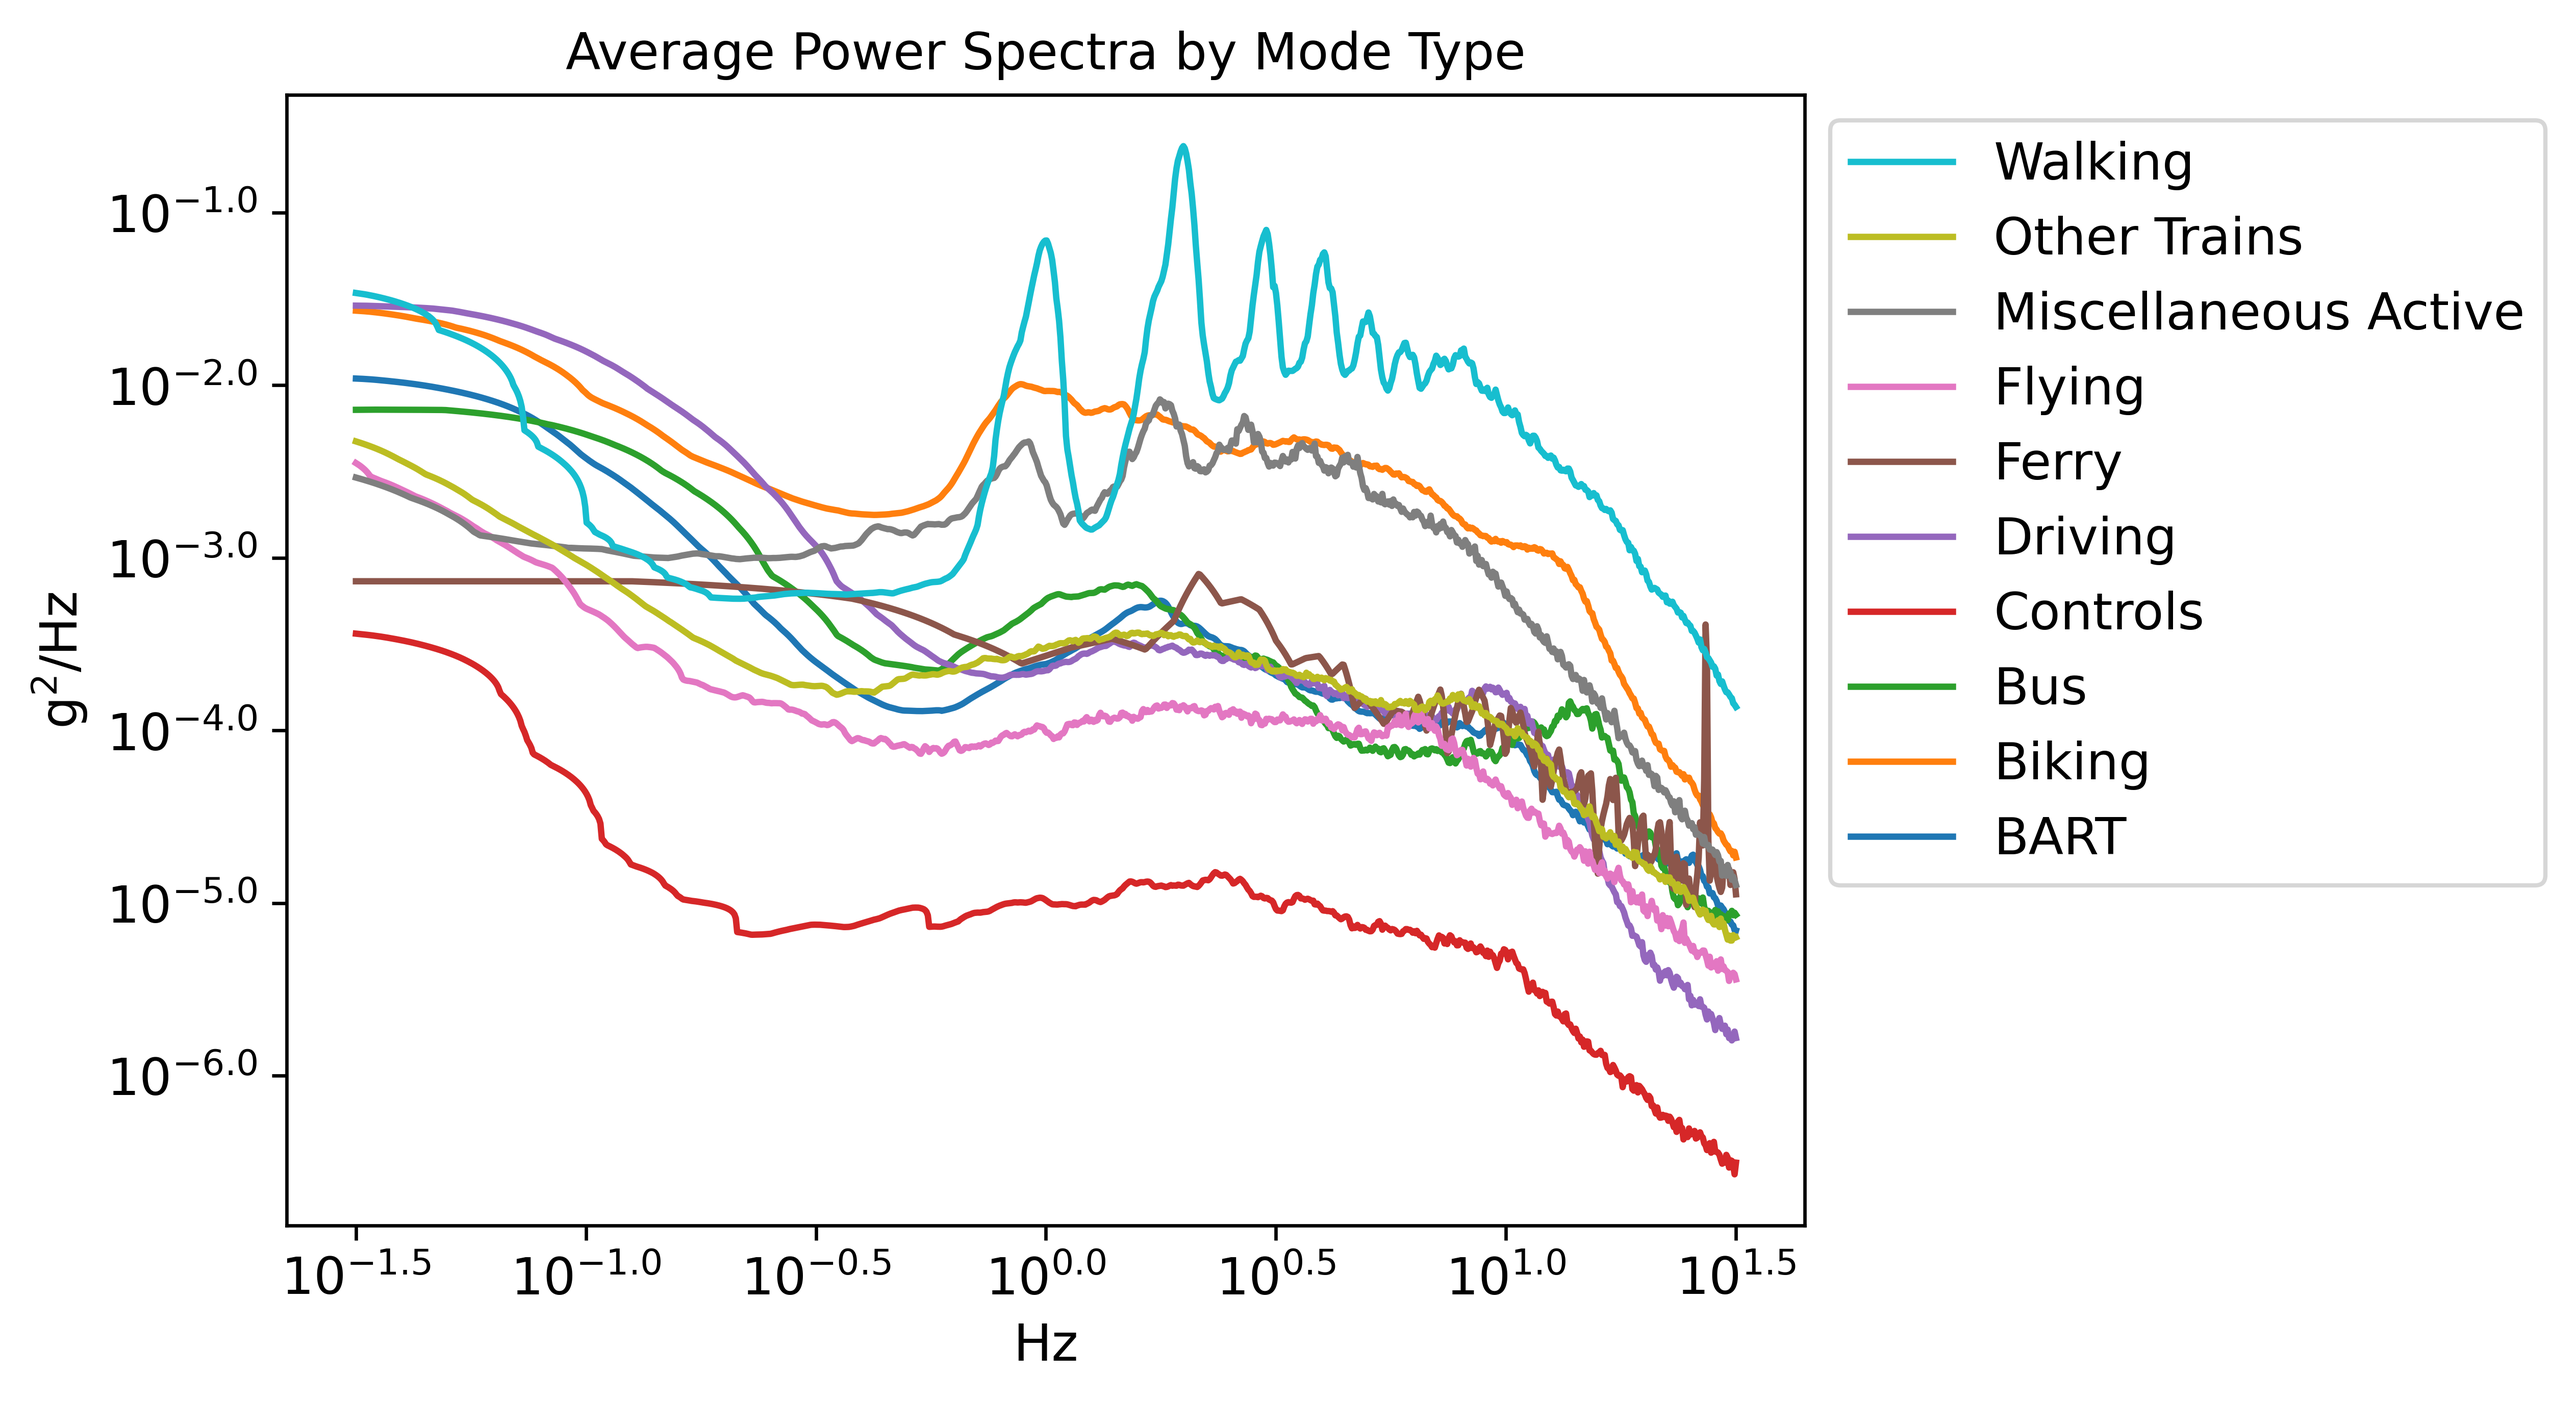
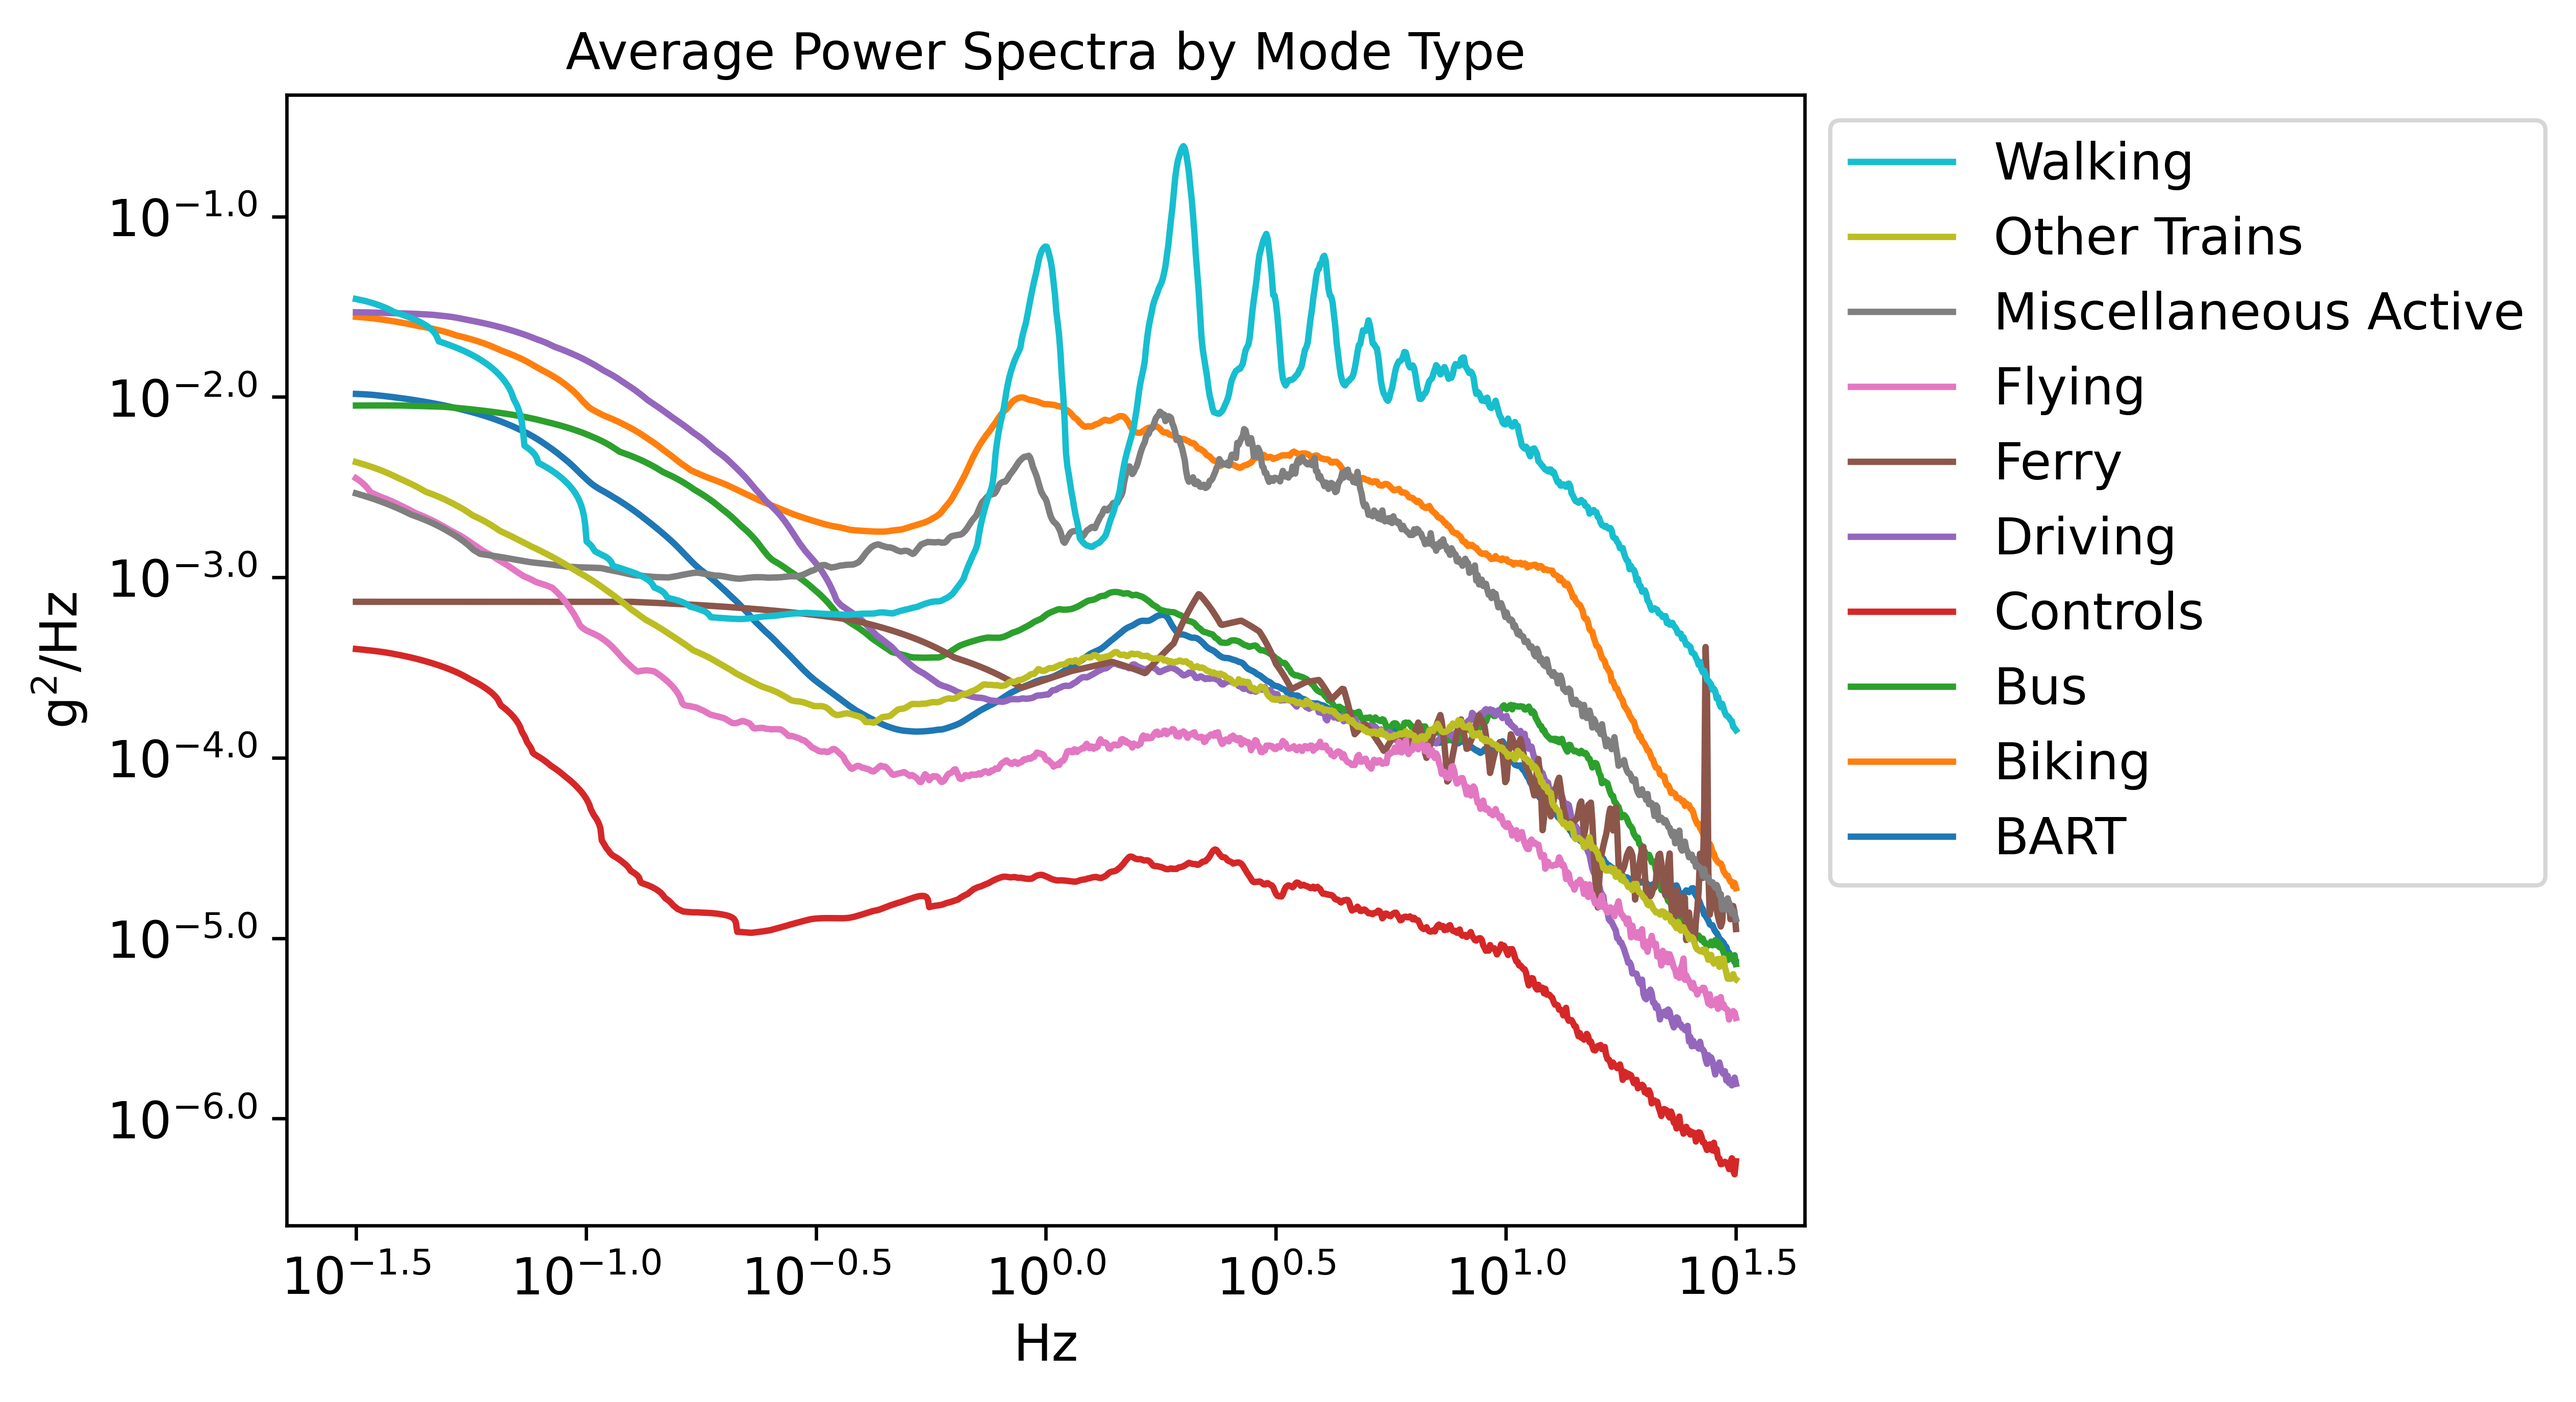
Misc. small updates
-Rotate axis label for wide figure
-Additional train mode keys
-Update example figure

diff --git a/analyze.py b/analyze.py
@@ -106,7 +106,7 @@ def analyze(mode_key_path):
     # Summary chart: rms acceleration
     pow_seg = accelerometers.pow_range(combined_bycat_log)
     plot_util.generic_plot(pow_seg.map(np.sqrt).T, kind='bar', ylabel='g', unstacked=True, title='RMS Acceleration by Freq. Range & Mode',
-                        output_directory=outputdir, fontsize=7)
+                        output_directory=outputdir, fontsize=7, rot=90)
 
     # Summarize by mode type
     # Currently used types of modes
